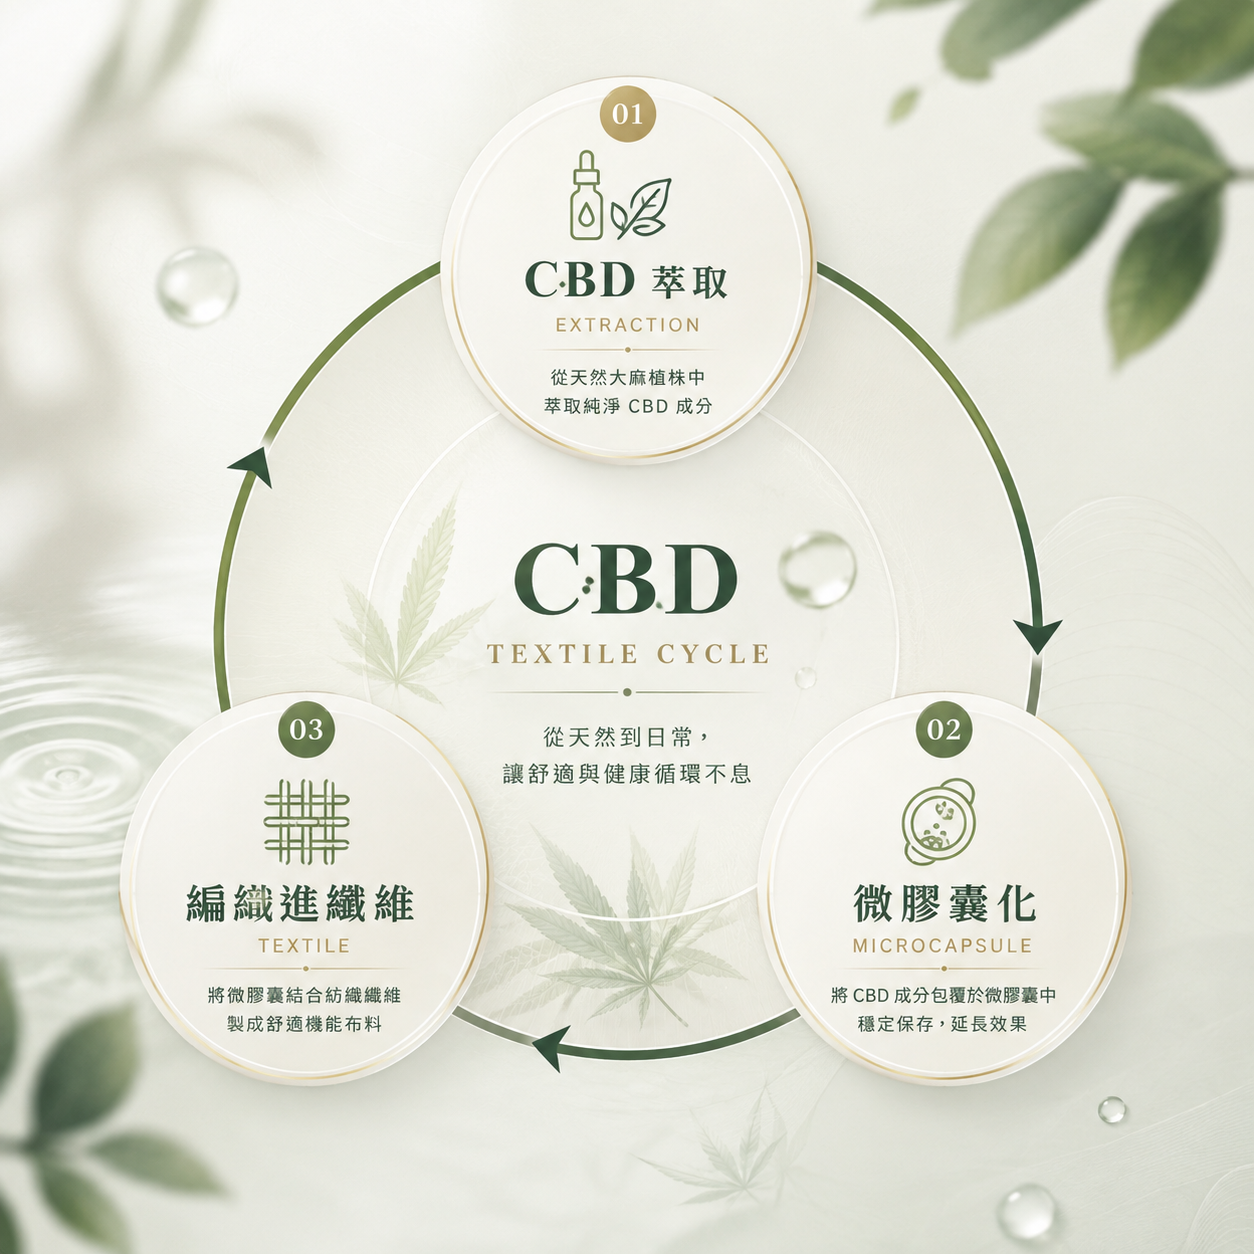
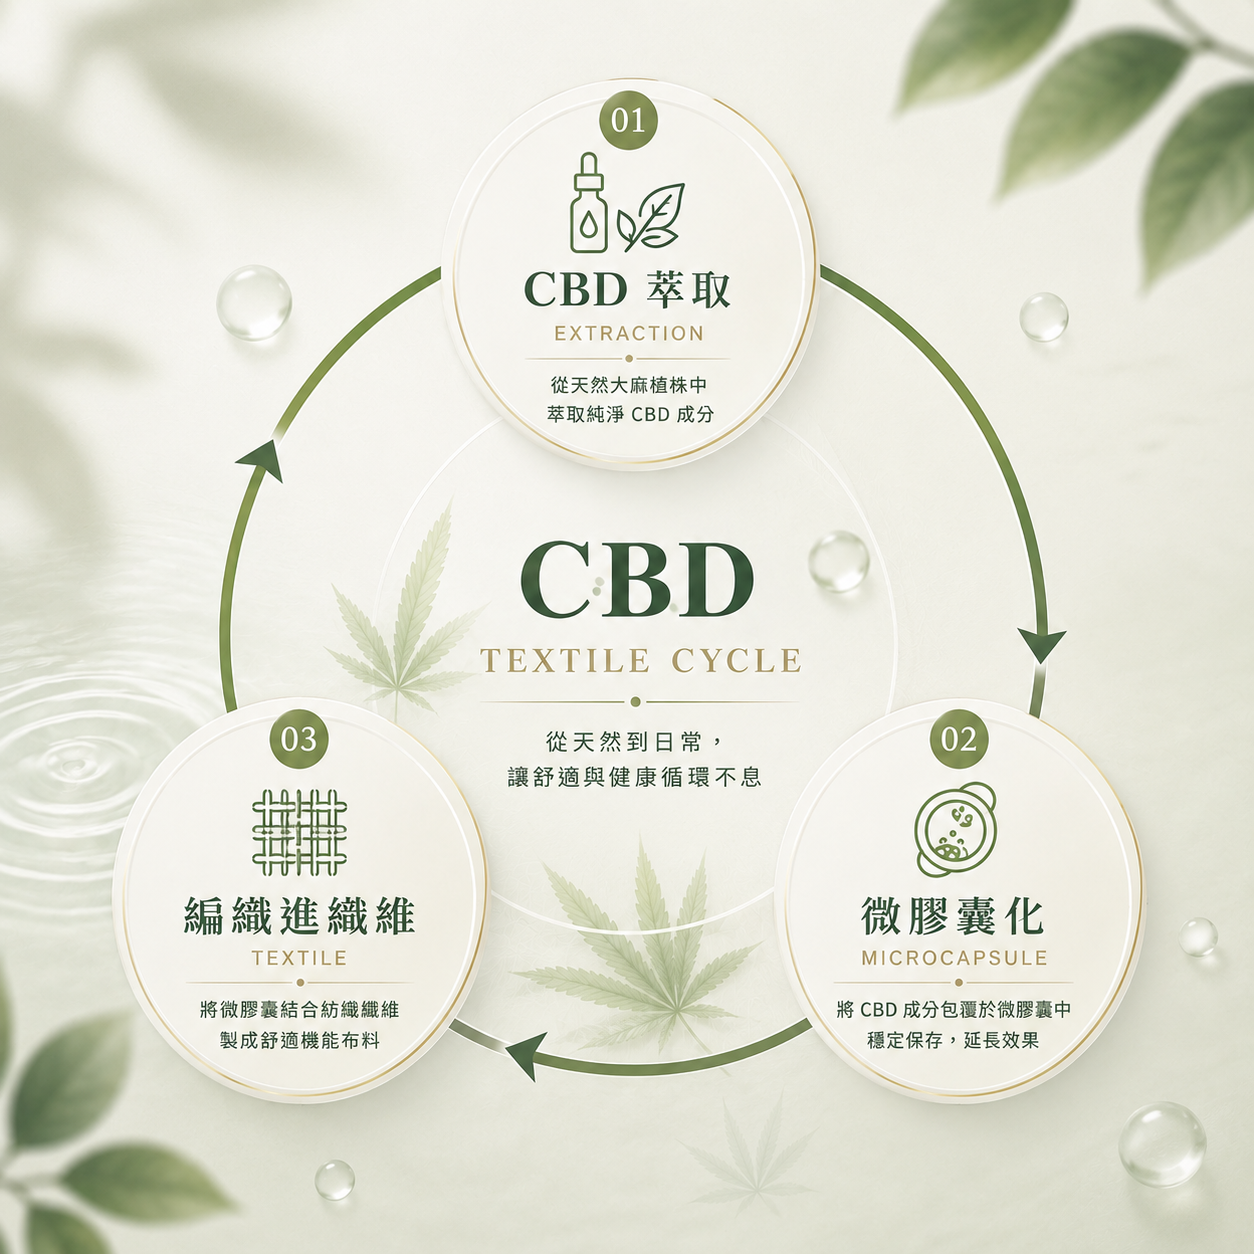
Add hydrophilic anti-snore pillow

diff --git a/app/page.tsx b/app/page.tsx
@@ -184,8 +184,28 @@ const pillowSeries: SeriesProduct[] = [
     note: "Tempwiser 親水棉接觸空氣後會產生泛黃狀況，屬於正常現象，不影響正常使用。",
   },
   {
-    name: "CBD 草本忘憂好眠寢具 好眠親水枕（海鷗枕／止鼾枕）",
-    en: "HYDROPHILIC CONTOUR PILLOW",
+    name: "CBD 草本忘憂好眠寢具 好眠親水枕 海鷗枕",
+    en: "HYDROPHILIC SEAGULL PILLOW",
+    image: "/cbd-hydrophilic-contour-pillow-bedroom.png",
+    statement: "獨家比利時萃取微膠囊技術",
+    detail: "將 CBD 成分提煉至微膠囊分子，編織進纖維；睡眠時，表布會緩慢且持續釋放出微量的 CBD 油。",
+    highlights: [
+      "CBD 成分提煉至微膠囊分子",
+      "微膠囊編織進纖維",
+      "睡眠時由表布緩慢且持續釋放",
+    ],
+    featureDetails: [
+      "漢麻二酚，天然草本技術製成",
+      "枕芯採用 GLORY 獨家專利「Tempwiser 親水棉」",
+      "醫藥大學臨床實驗證明",
+      "特殊造型，正睡、側睡，都能完美支撐。",
+      "完全釋放肩頸壓力，給你最佳的睡眠品質。",
+    ],
+    note: "Tempwiser 親水棉材質接觸空氣後會產生泛黃狀況，屬於正常現象，不影響正常使用。",
+  },
+  {
+    name: "CBD 草本忘憂好眠寢具 好眠親水枕 止鼾枕",
+    en: "HYDROPHILIC ANTI-SNORE PILLOW",
     image: "/cbd-hydrophilic-contour-pillow-bedroom.png",
     statement: "獨家比利時萃取微膠囊技術",
     detail: "將 CBD 成分提煉至微膠囊分子，編織進纖維；睡眠時，表布會緩慢且持續釋放出微量的 CBD 油。",
@@ -430,22 +450,21 @@ const travelSeries: SeriesProduct[] = [
 ];
 
 const stores = [
-  { name: "南京館", address: "台北市松山區南京東路五段 8 號", phone: "(02) 2765-8701", tags: ["可刷卡", "國旅卡"] },
-  { name: "竹北館", address: "新竹縣竹北市文興路一段 136 號", phone: "(03) 667-0229", tags: ["可刷卡", "停車場"] },
-  { name: "豐原館", address: "台中市豐原區中山路 39 號", phone: "(04) 2535-0160", tags: ["可刷卡", "停車場"] },
-  { name: "崇德館", address: "台中市北屯區崇德路二段 32 號", phone: "(04) 2236-7963", tags: ["可刷卡", "國旅卡"] },
-  { name: "經貿館", address: "台中市北屯區新平里經貿五路 68 號", phone: "(04) 2426-0752", tags: ["可刷卡", "國旅卡"] },
-  { name: "精誠館", address: "台中市西區精誠路 340 號", phone: "(04) 2321-4988", tags: ["可刷卡", "停車場", "國旅卡"] },
-  { name: "惠中館", address: "台中市西屯區惠中路二段 43 號", phone: "(04) 2255-0169", tags: ["可刷卡", "停車場", "國旅卡"] },
-  { name: "大里館", address: "台中市大里區國光路二段 711 號", phone: "(04) 2407-1007", tags: ["可刷卡", "國旅卡"] },
-  { name: "草屯館", address: "南投縣草屯鎮成功路一段 153-1 號", phone: "(049) 230-7036", tags: ["可刷卡", "國旅卡"] },
-  { name: "田中館", address: "彰化縣田中鎮新福路 43 號", phone: "(04) 875-5753", tags: ["可刷卡"] },
-  { name: "斗六館", address: "雲林縣斗六市雲林路三段 10 號", phone: "(05) 522-1585", tags: ["可刷卡", "國旅卡"] },
+  { name: "南京館", address: "台北市松山區南京東路五段 8 號", tags: ["可刷卡", "國旅卡"] },
+  { name: "竹北館", address: "新竹縣竹北市文興路一段 136 號", tags: ["可刷卡", "停車場"] },
+  { name: "豐原館", address: "台中市豐原區中山路 39 號", tags: ["可刷卡", "停車場"] },
+  { name: "崇德館", address: "台中市北屯區崇德路二段 32 號", tags: ["可刷卡", "國旅卡"] },
+  { name: "經貿館", address: "台中市北屯區新平里經貿五路 68 號", tags: ["可刷卡", "國旅卡"] },
+  { name: "精誠館", address: "台中市西區精誠路 340 號", tags: ["可刷卡", "停車場", "國旅卡"] },
+  { name: "惠中館", address: "台中市西屯區惠中路二段 43 號", tags: ["可刷卡", "停車場", "國旅卡"] },
+  { name: "大里館", address: "台中市大里區國光路二段 711 號", tags: ["可刷卡", "國旅卡"] },
+  { name: "草屯館", address: "南投縣草屯鎮成功路一段 153-1 號", tags: ["可刷卡", "國旅卡"] },
+  { name: "田中館", address: "彰化縣田中鎮新福路 43 號", tags: ["可刷卡"] },
+  { name: "斗六館", address: "雲林縣斗六市雲林路三段 10 號", tags: ["可刷卡", "國旅卡"] },
   {
     name: "台中榮總",
     displayName: "上品寢具 CBD 專櫃【台中榮總】",
     address: "台中市西屯區福聯里台灣大道四段1650號（門診後棟2樓領藥區前商場）",
-    phone: "",
     tags: ["CBD 專櫃"],
   },
 ];
@@ -575,8 +594,9 @@ export default function Home() {
           <button className="product-modal-close" type="button" aria-label="關閉產品系列" onClick={closeProductModal} autoFocus>×</button>
           <header className="pillow-catalog-heading"><small>{catalogConfig.en}</small><h2 id="pillow-catalog-title" className={catalogConfig.titleClass ?? ""}>{catalogConfig.title}</h2><p>{catalogConfig.copy}</p></header>
           <div className="pillow-catalog-grid">{catalogConfig.items.map((item, index) => {
-            const isHydrophilicContour = item.name === "CBD 草本忘憂好眠寢具 好眠親水枕（海鷗枕／止鼾枕）";
-            return <button className={`pillow-catalog-card ${isHydrophilicContour ? "hydrophilic-catalog-card" : ""}`} type="button" key={item.name} onClick={() => setSelectedSeriesItemIndex(index)}><span className="pillow-catalog-image"><img src={item.image} alt={item.name} /><i>{String(index + 1).padStart(2, "0")}</i></span><span className="pillow-catalog-copy"><small>{item.en}</small><strong className={isHydrophilicContour ? "hydrophilic-title-lines" : ""}>{isHydrophilicContour ? <><span>CBD 草本忘憂好眠寢具 好眠親水枕</span><span>（海鷗枕／止鼾枕）</span></> : item.name}</strong><em>查看產品介紹 <b>→</b></em></span></button>;
+            const isHydrophilicContour = item.name.includes("好眠親水枕");
+            const hydrophilicType = item.name.endsWith("止鼾枕") ? "止鼾枕" : "海鷗枕";
+            return <button className={`pillow-catalog-card ${isHydrophilicContour ? "hydrophilic-catalog-card" : ""}`} type="button" key={item.name} onClick={() => setSelectedSeriesItemIndex(index)}><span className="pillow-catalog-image"><img src={item.image} alt={item.name} /><i>{String(index + 1).padStart(2, "0")}</i></span><span className="pillow-catalog-copy"><small>{item.en}</small><strong className={isHydrophilicContour ? "hydrophilic-title-lines" : ""}>{isHydrophilicContour ? <><span>CBD 草本忘憂好眠寢具 好眠親水枕</span><span>{hydrophilicType}</span></> : item.name}</strong><em>查看產品介紹 <b>→</b></em></span></button>;
           })}</div>
         </section>
       </div> : selectedProduct ? <div className="product-modal-backdrop" onMouseDown={closeProductModal}>
@@ -591,7 +611,7 @@ export default function Home() {
         <section className="product-modal pillow-series-detail pillow-series-expanded" role="dialog" aria-modal="true" aria-labelledby="pillow-detail-title" onMouseDown={(event) => event.stopPropagation()}>
           <button className="product-modal-close" type="button" aria-label="返回產品系列" onClick={() => setSelectedSeriesItemIndex(null)} autoFocus>←</button>
           <div className="product-modal-visual"><img className={`product-modal-image pillow-series-image pillow-series-image-${selectedSeriesItemIndex}`} src={selectedSeriesItem.image} alt={selectedSeriesItem.name} /></div>
-          <div className="product-modal-copy pillow-series-copy"><small>{selectedSeriesItem.en}</small><h2 id="pillow-detail-title" className={`pillow-series-title-nowrap ${selectedSeriesItem.name.length > 18 ? "pillow-series-title-long" : ""} ${selectedSeriesItem.name === "CBD 草本忘憂好眠寢具 好眠親水枕（海鷗枕／止鼾枕）" ? "hydrophilic-title-lines" : ""}`}>{selectedSeriesItem.name === "CBD 草本忘憂好眠寢具 好眠親水枕（海鷗枕／止鼾枕）" ? <><span>CBD 草本忘憂好眠寢具 好眠親水枕</span><span>（海鷗枕／止鼾枕）</span></> : selectedSeriesItem.name}</h2><strong>{selectedSeriesItem.statement}</strong><p>{selectedSeriesItem.detail}</p><ul>{selectedSeriesItem.highlights.map((item) => <li key={item}>{item}</li>)}</ul>{selectedSeriesItem.featureDetails?.length ? <section className="pillow-feature-details" aria-label={`${selectedSeriesItem.name}產品特色`}><small>PRODUCT FEATURES</small><h3>{selectedSeriesItemIndex === 0 && selectedProductIndex === 0 ? "草本科技與天絲親膚特色" : "草本科技與產品特色"}</h3><ol>{selectedSeriesItem.featureDetails.map((item, index) => <li key={item}><span>{String(index + 1).padStart(2, "0")}</span><p>{item}</p></li>)}</ol></section> : null}<p className="product-modal-note">{selectedSeriesItem.note}</p><div className="product-modal-actions"><a className="button dark capsule" href="#stores" onClick={closeProductModal}>到門市體驗 <span>↗</span></a><button className="pillow-back-button" type="button" onClick={() => setSelectedSeriesItemIndex(null)}>返回系列商品</button></div></div>
+          <div className="product-modal-copy pillow-series-copy"><small>{selectedSeriesItem.en}</small><h2 id="pillow-detail-title" className={`pillow-series-title-nowrap ${selectedSeriesItem.name.length > 18 ? "pillow-series-title-long" : ""} ${selectedSeriesItem.name.includes("好眠親水枕") ? "hydrophilic-title-lines" : ""}`}>{selectedSeriesItem.name.includes("好眠親水枕") ? <><span>CBD 草本忘憂好眠寢具 好眠親水枕</span><span>{selectedSeriesItem.name.endsWith("止鼾枕") ? "止鼾枕" : "海鷗枕"}</span></> : selectedSeriesItem.name}</h2><strong>{selectedSeriesItem.statement}</strong><p>{selectedSeriesItem.detail}</p><ul>{selectedSeriesItem.highlights.map((item) => <li key={item}>{item}</li>)}</ul>{selectedSeriesItem.featureDetails?.length ? <section className="pillow-feature-details" aria-label={`${selectedSeriesItem.name}產品特色`}><small>PRODUCT FEATURES</small><h3>{selectedSeriesItemIndex === 0 && selectedProductIndex === 0 ? "草本科技與天絲親膚特色" : "草本科技與產品特色"}</h3><ol>{selectedSeriesItem.featureDetails.map((item, index) => <li key={item}><span>{String(index + 1).padStart(2, "0")}</span><p>{item}</p></li>)}</ol></section> : null}<p className="product-modal-note">{selectedSeriesItem.note}</p><div className="product-modal-actions"><a className="button dark capsule" href="#stores" onClick={closeProductModal}>到門市體驗 <span>↗</span></a><button className="pillow-back-button" type="button" onClick={() => setSelectedSeriesItemIndex(null)}>返回系列商品</button></div></div>
         </section>
       </div> : null}
 
@@ -669,7 +689,7 @@ export default function Home() {
         <section className="store-modal" id="store-directory-dialog" role="dialog" aria-modal="true" aria-labelledby="store-modal-title" onMouseDown={(event) => event.stopPropagation()}>
           <button className="product-modal-close" type="button" aria-label="關閉門市資訊" onClick={() => setStoreModalOpen(false)} autoFocus>×</button>
           <header className="store-modal-heading"><small>SONG BEAM STORE DIRECTORY</small><h2 id="store-modal-title">全台門市資訊</h2><p>共 12 處門市與專櫃，歡迎於前往前確認營業時間與試躺服務。</p></header>
-          <div className="store-regions">{storeGroups.map((group) => <section className="store-region" key={group.name}><header><small>{group.en}</small><h3>{group.name}</h3><span>{group.stores.length} 處</span></header>{group.stores.length ? <div className="store-modal-grid">{group.stores.map((store, index) => <article key={store.name}><span>{String(index + 1).padStart(2, "0")}</span><div><h3>{store.displayName ?? `上品寢具床墊館【${store.name}】`}</h3><p>{store.address}</p>{store.phone ? <a href={`tel:${store.phone.replace(/[^\d]/g, "")}`} aria-label={`致電${store.name} ${store.phone}`}>{store.phone}</a> : null}<ul>{store.tags.map((tag) => <li key={tag}>{tag}</li>)}</ul></div></article>)}</div> : <p className="store-region-empty">此區目前尚無門市資訊，最新據點將持續更新。</p>}</section>)}</div>
+          <div className="store-regions">{storeGroups.map((group) => <section className="store-region" key={group.name}><header><small>{group.en}</small><h3>{group.name}</h3><span>{group.stores.length} 處</span></header>{group.stores.length ? <div className="store-modal-grid">{group.stores.map((store, index) => <article key={store.name}><span>{String(index + 1).padStart(2, "0")}</span><div><h3>{store.displayName ?? `上品寢具床墊館【${store.name}】`}</h3><p>{store.address}</p><ul>{store.tags.map((tag) => <li key={tag}>{tag}</li>)}</ul></div></article>)}</div> : <p className="store-region-empty">此區目前尚無門市資訊，最新據點將持續更新。</p>}</section>)}</div>
           <footer className="store-modal-footer"><p>門市資料依上品寢具官方網站目前刊載內容整理。</p></footer>
         </section>
       </div> : null}
